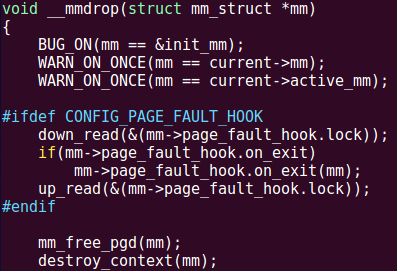
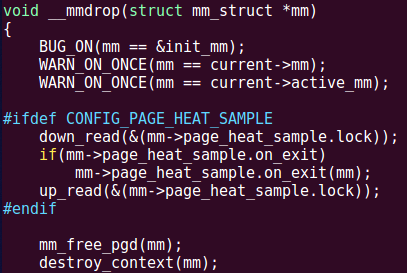
pgheat kernel

diff --git a/articles/2018/页热度监控工具pgheat（二）——Kernel的修改/index.html b/articles/2018/页热度监控工具pgheat（二）——Kernel的修改/index.html
@@ -15,124 +15,116 @@
                             </header>
                             <div class="entry-content">
 
-<p>Kernel的修改非常简单，分为五步，下面一步步分解。我使用的kernel版本是<a href="https://cdn.kernel.org/pub/linux/kernel/v4.x/linux-4.17.19.tar.xz">4.17.19</a>，不过修改对kernel版本依赖很小。</p>
+<p>Kernel的修改非常简单，分为7步，下面一步步分解。我使用的kernel版本是<a href="https://cdn.kernel.org/pub/linux/kernel/v4.x/linux-4.17.19.tar.xz">4.17.19</a>，不过修改对kernel版本依赖很小。</p>
 
 <p>第一步，在include/linux/mm_types.h的第506行附近，即struct mm_struct结构体最后加入如下代码，一切修改都以新的数据结构为基础：</p>
 
 <pre>
-#ifdef CONFIG_PAGE_FAULT_HOOK
+#ifdef CONFIG_PAGE_HEAT_SAMPLE
     struct
-    {
+    {   
         struct rw_semaphore lock;
-        void (*update_pte)(struct mm_struct* mm, unsigned long vaddr,
-            pte_t* pte, pte_t new_pte);
-        int (*on_fault)(struct mm_struct* mm, unsigned long errcode, unsigned long vaddr);
-        pte_t (*fork_copy_pte)(struct mm_struct* mm, struct mm_struct* dst_mm, pte_t pte);
+        int (*on_fault)(struct mm_struct* mm, unsigned long error_code, unsigned long address);
+        int (*on_access_error)(struct mm_struct* mm, unsigned long error_code, 
+            unsigned long address);
+        pte_t (*on_fork)(struct mm_struct* mm, struct mm_struct* dst_mm, pte_t pte);
         void (*on_exit)(struct mm_struct* mm);
         void* privdata;
-    }
-    page_fault_hook;
+    }   
+    page_heat_sample;
 #endif
 </pre>
 
-<p>update_pte函数指针是kernel提供给内核模块使用的，用以更新PTE（比如刷新TLB）。由于不同平台可能有较大差异，因此设计为由kernel提供。on_fault函数指针是内核模块注册的，在发生page fault时，kernel应检查之，如果不为空，则调用。fork_copy_pte函数指针是内核模块注册的，在fork()中复制PTE时，如果其不为空，则调用之（比如内核模块可以清理地雷等等）。on_exit函数指针也是内核模块注册的，在虚拟地址空间被释放前，kernel检查该指针，如果不为空，则调用之。</p>
-
 <p><img src="1.png"></p>
+
+<p>每一个字段的用处将在以下代码中体现。</p>
 
 <p>第二步，在kernel/fork.c的第632行附近，即__mmdrop()里面，加入如下代码，使得进程结束时我们自定义的on_exit函数可以被调用，以做一些析构操作：</p>
 
 <pre>
-#ifdef CONFIG_PAGE_FAULT_HOOK
-    down_read(&amp;(mm-&gt;page_fault_hook.lock));
-    if(mm-&gt;page_fault_hook.on_exit)
-        mm-&gt;page_fault_hook.on_exit(mm);
-    up_read(&amp;(mm-&gt;page_fault_hook.lock));
+#ifdef CONFIG_PAGE_HEAT_SAMPLE
+    down_read(&amp;(mm-&gt;page_heat_sample.lock));
+    if(mm-&gt;page_heat_sample.on_exit)
+        mm-&gt;page_heat_sample.on_exit(mm);
+    up_read(&amp;(mm-&gt;page_heat_sample.lock));
 #endif
 </pre>
 
 <p><img src="2.png"></p>
 
-<p>第三步，在kernel/fork.c的第926行附近，加入如下代码，实现新增字段的初始化工作：</p>
+<p>第三步，在kernel/fork.c的第929行附近，即mm_init()开头，加入如下代码，实现新增字段的初始化工作：</p>
 
 <pre>
-#ifdef CONFIG_PAGE_FAULT_HOOK
-static void page_fault_hook_update_pte(struct mm_struct* mm,
-    unsigned long vaddr, pte_t* ppte, pte_t new_pte)
-{
-    struct vm_area_struct fake_vma;
-    fake_vma.vm_mm = mm;
-    unsigned long mmu_start = vaddr &amp; PAGE_MASK;
-    unsigned long mmu_end = mmu_start + PAGE_SIZE;
-    mmu_notifier_invalidate_range_start(mm, mmu_start, mmu_end);
-    flush_cache_page(&amp;fake_vma, vaddr, pte_pfn(*ppte));
-    ptep_clear_flush_notify(&amp;fake_vma, vaddr, ppte);
-    set_pte_at_notify(mm, vaddr, ppte, new_pte);
-    update_mmu_cache(&amp;fake_vma, vaddr, ppte);
-    mmu_notifier_invalidate_range_only_end(mm, mmu_start, mmu_end);
-}
-
-static void inline init_page_fault_hook(struct mm_struct* mm)
-{
-    init_rwsem(&amp;(mm-&gt;page_fault_hook.lock));
-    mm-&gt;page_fault_hook.update_pte = page_fault_hook_update_pte;
-    mm-&gt;page_fault_hook.on_fault = NULL;
-    mm-&gt;page_fault_hook.fork_copy_pte = NULL;
-    mm-&gt;page_fault_hook.on_exit = NULL;
-    mm-&gt;page_fault_hook.privdata = NULL;
-}
-#endif
-</pre>
-
-<p>并在第953行附近，即mm_init()函数开头调用之，使得进程创建时新增的数据结构得到初始化：</p>
-
-<pre>
-#ifdef CONFIG_PAGE_FAULT_HOOK
-    init_page_fault_hook(mm);
+#ifdef CONFIG_PAGE_HEAT_SAMPLE
+    init_rwsem(&amp;(mm-&gt;page_heat_sample.lock));
+    mm-&gt;page_heat_sample.on_fault = NULL;
+    mm-&gt;page_heat_sample.on_access_error = NULL;
+    mm-&gt;page_heat_sample.on_fork = NULL;
+    mm-&gt;page_heat_sample.on_exit = NULL;
+    mm-&gt;page_heat_sample.privdata = NULL;
 #endif
 </pre>
 
 <p><img src="3.png"></p>
 
-<p>第四步，在arch/x86/mm/fault.c的1305行附近，即__do_page_fault()中，插入如下代码，使得发生page fault时我们的on_fault函数得到调用（目前仅支持x86）：</p>
+<p>第四步，在mm/memory.c的第1059行附近添加如下代码，使得内核模块有机会修改fork()时的页表项（比如，复制给子进程的PTE是不能有“地雷”的，所以on_fork()需要清除PTE上的地雷）：</p>
 
 <pre>
-#ifdef CONFIG_PAGE_FAULT_HOOK
-    down_read(&amp;(mm-&gt;page_fault_hook.lock));
-    if(mm-&gt;page_fault_hook.on_fault)
-    {    
-        if(mm-&gt;page_fault_hook.on_fault(mm, error_code, address))
-        {    
-            up_read(&amp;(mm-&gt;page_fault_hook.lock));
-            return;
-        }    
-    }    
-    up_read(&amp;(mm-&gt;page_fault_hook.lock));
+#ifdef CONFIG_PAGE_HEAT_SAMPLE
+    down_read(&amp;(src_mm-&gt;page_heat_sample.lock));
+    if(src_mm-&gt;page_heat_sample.on_fork)
+        pte = src_mm-&gt;page_heat_sample.on_fork(src_mm, dst_mm, pte);
+    up_read(&amp;(src_mm-&gt;page_heat_sample.lock));
 #endif
 </pre>
 
 <p><img src="4.png"></p>
 
-<p>第五步，在mm/memory.c的第1059行附近添加如下代码，使得内核模块有机会修改fork()时的页表项：</p>
+<p>第五步，在arch/x86/mm/fault.c的1305行附近，即__do_page_fault()中，插入如下代码，使得发生page fault时我们的on_fault函数得到调用（比如“排雷”）（目前仅支持x86，如要支持其他硬件，在相应的arch/xxx/mm/fault.c中作类似修改）：</p>
 
 <pre>
-#ifdef CONFIG_PAGE_FAULT_HOOK
-    down_read(&amp;(src_mm-&gt;page_fault_hook.lock));
-    if(src_mm-&gt;page_fault_hook.fork_copy_pte)
-        pte = src_mm-&gt;page_fault_hook.fork_copy_pte(src_mm, dst_mm, pte);
-    up_read(&amp;(src_mm-&gt;page_fault_hook.lock));
+#ifdef CONFIG_PAGE_HEAT_SAMPLE
+    down_read(&amp;(mm-&gt;page_heat_sample.lock));
+    if(mm-&gt;page_heat_sample.on_fault &amp;&amp;
+        mm-&gt;page_heat_sample.on_fault(mm, error_code, address))
+    {
+        up_read(&amp;(mm-&gt;page_heat_sample.lock));
+        return;
+    }
+    up_read(&amp;(mm-&gt;page_heat_sample.lock));
 #endif
 </pre>
 
 <p><img src="5.png"></p>
 
-<p>第六步，在arch/x86/Kconfig的最前面，加上如下代码，让以上所有CONFIG_PAGE_FAULT_HOOK使能：</p>
+<p>该函数返回0表示该page fault与页热度检测无关，交由kernel原本的page fault逻辑去处理。返回1表示该page fault是“地雷”导致的，并且已经“排雷”，不需要后续的kernel的逻辑了，直接return。</p>
+
+<p>第六步，在arch/x86/mm/fault.c的第1391行附近，加入以下代码，使得TLB偶尔不一致或者并发“踩雷”时，权限异常导致的page fault能够有豁免机会（见附录详解）：</p>
 
 <pre>
-config PAGE_FAULT_HOOK
-    def_bool y
+#ifdef CONFIG_PAGE_HEAT_SAMPLE
+    down_read(&amp;(mm-&gt;page_heat_sample.lock));
+    if(mm-&gt;page_heat_sample.on_access_error &amp;&amp;
+        mm-&gt;page_heat_sample.on_access_error(mm, error_code, address))
+    {
+        up_read(&amp;(mm-&gt;page_heat_sample.lock));
+        up_read(&amp;mm-&gt;mmap_sem);
+        return;
+    }
+    up_read(&amp;(mm-&gt;page_heat_sample.lock));
+#endif
 </pre>
 
 <p><img src="6.png"></p>
+
+<p>第七步，在arch/x86/Kconfig的最前面，加上如下代码，让以上所有CONFIG_PAGE_HEAT_SAMPLE使能：</p>
+
+<pre>
+config PAGE_HEAT_SAMPLE
+    def_bool y
+</pre>
+
+<p><img src="7.png"></p>
 
 <p>OK，编译内核：</p>
 
@@ -144,6 +136,36 @@ sudo make install
 </pre>
 
 <p>重启即可使用新的Kernel了！</p>
+
+<p>========================附录：on_acces_error的作用=================</p>
+
+<p>首先介绍一下背景知识：当MMU发现一个页异常时，会触发硬件中断，即page fault，并且给定一个error_code，指明发生page fault的原因。在x86上，error_code的第一位指明是缺页还是页权限错误，第二位指明是读访问还是写访问，第三位指明是用户态访问还是内核态访问等等，定义可见arch/x86/include/asm/traps.h末尾：</p>
+
+<p><img src="8.png"></p>
+
+<p>可见，error_code只会指出是不是权限异常导致的，却不会指出到底是什么权限的缺失导致的。</p>
+
+<p>我们考虑一个多线程的情况。假设一个进程拥有两个线程A和B，且某一时刻A和B分别运行在core 1和core 2上。若A和B同时访问同一个页，恰巧该页上有“地雷”，那么core 1和core 2同时触发page fault。假设core 1先执行了on_fault()，清除了“地雷”，并且直接退出了page fault，回到用户态继续执行。当core 2执行on_fault()时，发现该页不存在“地雷”，因此认为该page fault与“地雷”无关，就返回0，执行kernel原本的page fault逻辑。由于“地雷”是通过权限异常触发的（x86上使用_PAGE_USER位），因此kernel原本的access_error()函数检查error_code发现，该page fault是一个错误的访问权限导致的，于是发送SIGSEGV信号杀死进程。</p>
+
+<p>除了多线程并发踩同一个雷会导致该bug，某些不保证TLB一致性的CPU也会导致该bug。假设某个页上有“地雷”，运行在core 1上的线程A先“踩雷”，触发了page fault，在on_fault()内部“排雷”，并直接return回用户态继续运行。尽管页表中的该PTE已经没有了“地雷”，且core 1的TLB也刷新了，但是core 2的TLB中该页的PTE副本依旧有“地雷”。于是，当稍后运行在core 2上的线程B访问该页时，TLB中的“地雷”使得core 2触发page fault。可是，当core 2调用on_fault()后发现，该页并不存在“地雷”，因此认为该page fault与“地雷”无关，于是on_fault()返回0，执行kernel中原本的page fault逻辑。接着又是一样的桥段——由于“地雷”是通过权限异常触发的（x86上使用_PAGE_USER位），因此kernel原本的access_error()函数检查error_code发现，该page fault是一个错误的访问权限导致的，于是发送SIGSEGV信号杀死进程。</p>
+
+<p>那么，新增的on_access_error()函数指针做了什么呢？第六步的代码很显然，如果kernel通过access_error()发现page fault是错误的权限导致的，那么就会调用我们的on_access_error()，如果我们的on_access_error()返回0，那么才发送信号杀死进程，否则return（我称之为“豁免”，就好像发了一块“免死令牌”）。我现在的策略是，<strong><font color="red">如果连续256次权限异常都发生在同一个地址上，那么才返回0（允许杀死进程），否则都返回1（豁免）</font></strong>。</p>
+
+<p>这样设计为何可以解决这个bug呢？分四种情况讨论：
+
+<ol>
+<li>对于绝大多数的“踩雷”，在第五步的代码中就正常的“排雷”并且返回用户态继续执行了。</li> 
+<li>对于上述第一种情况，core 2的权限异常被“豁免”一次，也return回用户态继续执行了。要连续并发地踩到同一个雷，概率是指数级减小，两个线程要连续256次地同时踩同一个有雷的页，是决不可能的事情（尽管概率上依旧可能发生，但是工程上完全可以忽略）。</li>
+<li>对于上述第二种情况，core 2的权限异常被“豁免”一次后，core 2的TLB会自动加载该页对应的PTE，因此不会再次因为不一致的TLB而陷入page fault。</li>
+<li>如果应用程序本身有bug，试图访问不该访问的内存（比如写一个只读的地址），那么触发page fault，on_access_error()给与第一次豁免后，一返回用户态，应用程序又尝试重新执行该访问，于是又在同一个地址触发page fault。只要on_access_error()不停地给与豁免，应用程序就会不停地在同一个地址触发page fault。当次数超过256次后，on_access_error()不再给与豁免，允许kernel发送SIGSEGV杀死进程。</li>
+</ol>
+
+<p>因此，对于绝大多数情况，性能开销只是踩雷和排雷的开销。对于上述两种情况，也就是多了一次page fault，但因为偶尔发生，性能损耗忽略不计。而对于程序有bug的情况，尽管本来一次page fault就能杀死进程，而现在需要256次page fault才能杀死进程，但是对于安全性而言，结果都是一样的，应用程序都没有任何作恶的机会。而对于一个即将被杀死的进程、或者说一个有bug的程序，讨论性能有何意义呢？
+</p>
+
+<p>最后解释一个问题，为何是256次？对于上述第一种情况，该数字可能只要8或16或者稍微更大些即可，一个小概率P再弄个好几次方，小到可以忽略即可。而对于第二种情况，这个数字只要超过core的数目即可，因为最极端的情况就是每一个core都发生一次page fault然后自动加载最新的PTE。</p>
+
+</p>
 
                 </div>
                         </article>
